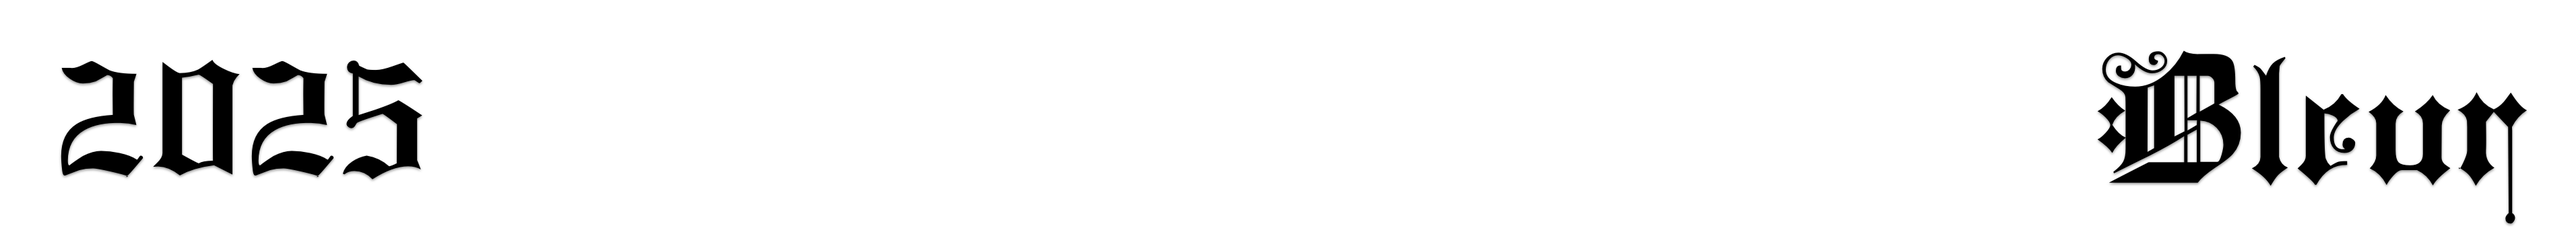
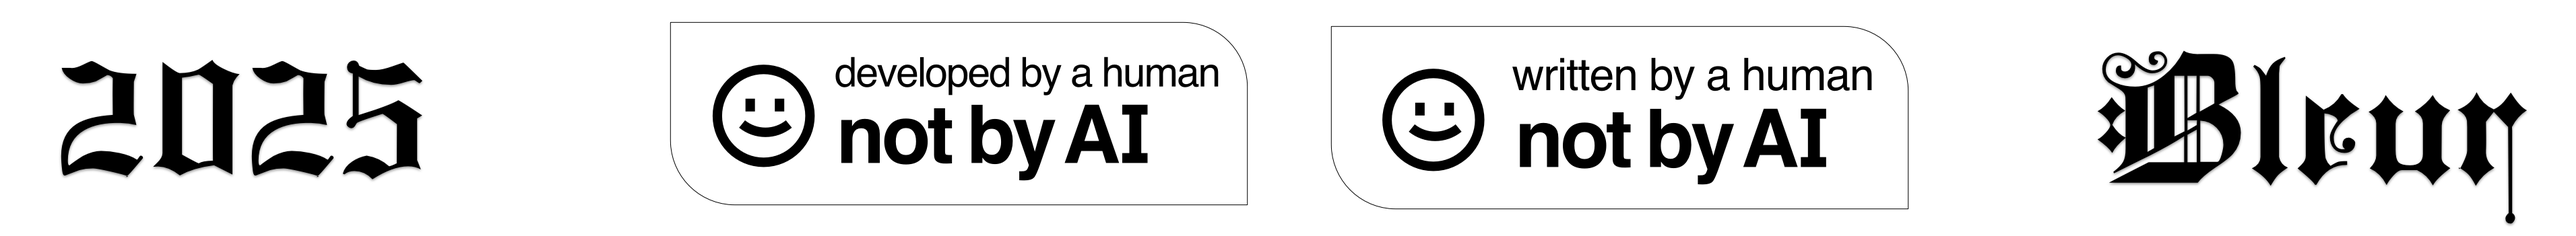
chore: created by human footer

diff --git a/readme.md b/readme.md
@@ -85,5 +85,7 @@ both shell.nix and default.nix to don't mix things up.
 This project is dual licensed under the MIT License and Apache-2.0 - see the [LICENSE-MIT](LICENSE-MIT) and [LICENSE-APACHE](LICENSE-APACHE) files for details.
 
 <p align="center">
-    <img src=".github/assets/footer.png" alt="Bleur's {Buddy}">
+    <a href="https://notbyai.fyi/app/draft/1445">
+      <img src=".github/assets/footer.png" alt="Bleur's {Buddy}">
+    </a>
 </p>
